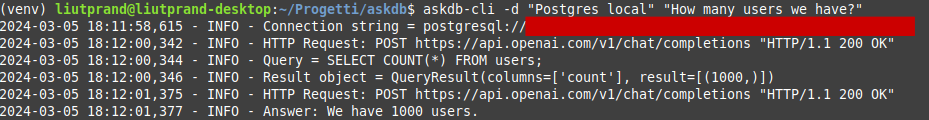
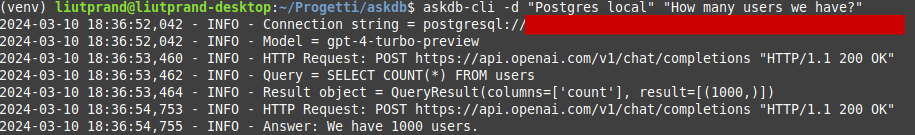
Model selection feature

diff --git a/src/askdb/main.py b/src/askdb/main.py
@@ -8,7 +8,7 @@ import os
 import sys
 
 from askdb.database import Database
-from askdb.llm import question_to_sql, sql_to_text
+from askdb.llm import get_openai_models, question_to_sql, sql_to_text
 from askdb.utils import get_config, get_prompt_template, query_result_to_table
 from nicegui import ui, run
 from pathlib import Path
@@ -16,6 +16,7 @@ from xdg_base_dirs import xdg_config_home
 
 CONFIG_DIR=Path(xdg_config_home(), "askdb")
 CONFIG_FILE="connections.json"
+DEFAULT_MODEL="gpt-4-turbo-preview"
 
 logging.basicConfig(level="INFO", format="%(asctime)s - %(levelname)s - %(message)s")
 os.chdir(os.path.dirname(os.path.abspath(__file__)))
@@ -36,13 +37,14 @@ def main() -> None:
     def ask_db():
         spinner.set_visibility(True)
         connection_string=db_options[db_select.value]
+        model=model_select.value
         question=question_label.value
 
         db=Database(connection_string)
         metadata=db.extract_metadata()
 
         prompt=get_prompt_template(connection_string)
-        sql=question_to_sql(prompt, metadata, question)
+        sql=question_to_sql(prompt, metadata, question, model)
         logging.info(sql)
 
         result=db.execute_sql_query(sql)
@@ -50,7 +52,7 @@ def main() -> None:
         logging.info(result)
         with open("prompts/result.txt") as file:
             prompt=file.read()
-        answer=sql_to_text(prompt, question, sql, result.result)
+        answer=sql_to_text(prompt, question, sql, result.result, model)
         logging.info(answer)
 
         output.set_text(answer)
@@ -72,16 +74,23 @@ def main() -> None:
 
     
     
-    ui.markdown("# AskDB GUI")
-
-    db_select=ui.select(
-        options=list(db_options.keys()),
-        label="Select the database", 
-        value=list(db_options.keys())[0]).classes("w-1/3")
+    ui.markdown("# AskDB")
 
     with ui.row().classes("w-full no-wrap"):
-        question_label=ui.input("Ask a question").classes("w-4/5")
-        ui.button("Submit", on_click=ask_db_wrapper).classes("w-1/5")
+        db_select=ui.select(
+            options=list(db_options.keys()),
+            label="Select a database", 
+            value=list(db_options.keys())[0]).classes("w-1/3")
+        
+        openai_models=get_openai_models()
+        model_select=ui.select(
+            options=openai_models,
+            label="Select a model",
+            value=DEFAULT_MODEL if DEFAULT_MODEL in openai_models else openai_models()[0]
+        ).classes("w-1/3")
+
+    question_label=ui.input("Ask a question").classes("w-full")
+    ui.button("Submit", on_click=ask_db_wrapper).classes("w-1/5")
 
     ui.markdown("## Response:")
     spinner=ui.spinner(size="3em")

diff --git a/src/askdb/cli.py b/src/askdb/cli.py
@@ -16,14 +16,16 @@ from xdg_base_dirs import xdg_config_home
 
 CONFIG_DIR=Path(xdg_config_home(), "askdb")
 CONFIG_FILE="connections.json"
+DEFAULT_MODEL="gpt-4-turbo-preview"
 
 logging.basicConfig(level="INFO", format="%(asctime)s - %(levelname)s - %(message)s")
 os.chdir(os.path.dirname(os.path.abspath(__file__)))
 
 @click.command()
 @click.argument("question")  
-@click.option("database", "--database", "-d", help="Name of the database (from connections.json)")  
-def main(question, database) -> None:
+@click.option("database", "--database", "-d", help="Name of the database (from connections.json)")
+@click.option("model", "--model", "-m", default=DEFAULT_MODEL, help="OpenAI model to use")  
+def main(question, database, model) -> None:
     
     try:
         config=get_config(CONFIG_DIR/CONFIG_FILE)
@@ -46,12 +48,13 @@ def main(question, database) -> None:
         connection_string=config[0]["connection_string"]
 
     logging.info(f"Connection string = {connection_string}")
+    logging.info(f"Model = {model}")
     db=Database(connection_string)
 
     metadata=db.extract_metadata()
     prompt=get_prompt_template(connection_string)
 
-    sql=question_to_sql(prompt, metadata, question)
+    sql=question_to_sql(prompt, metadata, question, model)
     logging.info(f"Query = {sql}")
 
     result=db.execute_sql_query(sql)
@@ -60,7 +63,7 @@ def main(question, database) -> None:
     with open("prompts/result.txt") as file:
         prompt=file.read()
 
-    answer=sql_to_text(prompt, question, sql, result.result)
+    answer=sql_to_text(prompt, question, sql, result.result, model)
     logging.info(f"Answer: {answer}")
 
 

diff --git a/src/askdb/llm.py b/src/askdb/llm.py
@@ -2,9 +2,15 @@ import openai
 
 from askdb.database import Table, Database
 
-MODEL="gpt-4-turbo-preview"
+def get_openai_models() -> list[str]:
+    client=openai.OpenAI()
+    models=[]
+    for model in client.models.list():
+        models.append(model.id)
+    models.sort()
+    return [m for m in models if m.startswith("gpt") and "instruct" not in m]
 
-def question_to_sql(prompt_template, schema: list[Table], question: str) -> str:
+def question_to_sql(prompt_template, schema: list[Table], question: str, model:str) -> str:
     schema_section=""
     for table in schema:
         schema_section += table.ddl
@@ -15,20 +21,20 @@ def question_to_sql(prompt_template, schema: list[Table], question: str) -> str:
 
     client=openai.OpenAI()
     result=client.chat.completions.create(
-        model=MODEL,
+        model=model,
         messages=[{"role": "user", "content": prompt_template}]
     )
 
     return result.choices[0].message.content
 
-def sql_to_text(prompt_template: str, question: str, query: str, result: str) -> str:
+def sql_to_text(prompt_template: str, question: str, query: str, result: str, model: str) -> str:
     prompt_template=prompt_template.replace("{question}", question)
     prompt_template=prompt_template.replace("{query}", query)
     prompt_template=prompt_template.replace("{result}", str(result))
 
     client=openai.OpenAI()
     result=client.chat.completions.create(
-        model=MODEL,
+        model=model,
         messages=[{"role": "user", "content": prompt_template}]
     )
 

diff --git a/README.md b/README.md
@@ -6,7 +6,7 @@ Universal Q&A database tool
 
 ## Project overview
 
-AskDB is a Q&A database tool that allows to ask questions to your relational data in natural language and get answers, powered by GPT-4 Turbo.
+AskDB is a Q&A database tool that allows to ask questions to your relational data in natural language and get answers, using the OpenAI LLMs.
 
 In very brief, what it does is:
 
@@ -73,7 +73,7 @@ The `name` field is just the id of the connection, you can put whatever you want
 
 Keep in mind that the supported (and tested) databases are PostgreSQL, MySql and Sqlite but the tool should work even with other DBMS supported by SqlAlchemy, with the only difference being that in this case it would use a [generic prompt](src/prompts/general.txt) instead of a customised one.
 
-Once the connections have been configured, one final step remains. Since AskDB uses GPT-4 Turbo, an Openai API Key (with [GPT-4 access](https://help.openai.com/en/articles/7102672-how-can-i-access-gpt-4)) must be provided. To do so, simply set the environment variable `OPENAI_API_KEY`.
+Once the connections have been configured, one final step remains. Since AskDB uses the OpenAI models, an Openai API Key must be provided. To do so, simply set the environment variable `OPENAI_API_KEY`.
 
 ## Safety and privacy
 
@@ -93,7 +93,9 @@ The web interface will open in the browser.
 
 ![gui screenshot](screenshots/screenshot-1.png)
 
-The use should be self-evident: simply select the database to be queried (defined in the `connections.json` file) from the list, enter the query and press 'Submit'. After a while you will get the answer. By clicking on "Show SQL" you can view the SQL query generated by the LLM and a table with the results.
+The use should be self-evident: simply select the database to be queried (defined in the `connections.json` file) and the OpenAI model, enter the question and press 'Submit'. After a while you will get the answer. By clicking on "Show SQL" you can view the SQL query generated by the LLM and a table with the results.
+
+Although all the OpenAI chat models are available, it is recommended to use the *gpt-4/gpt-4-turbo* family, as they are able to follow instructions much more accurately.
 
 ### CLI
 
@@ -104,6 +106,7 @@ Usage: askdb-cli [OPTIONS] QUESTION
 
 Options:
   -d, --database TEXT  Name of the database (from connections.json)
+  -m, --model TEXT     OpenAI model to use
   --help               Show this message and exit.
 ```
 
